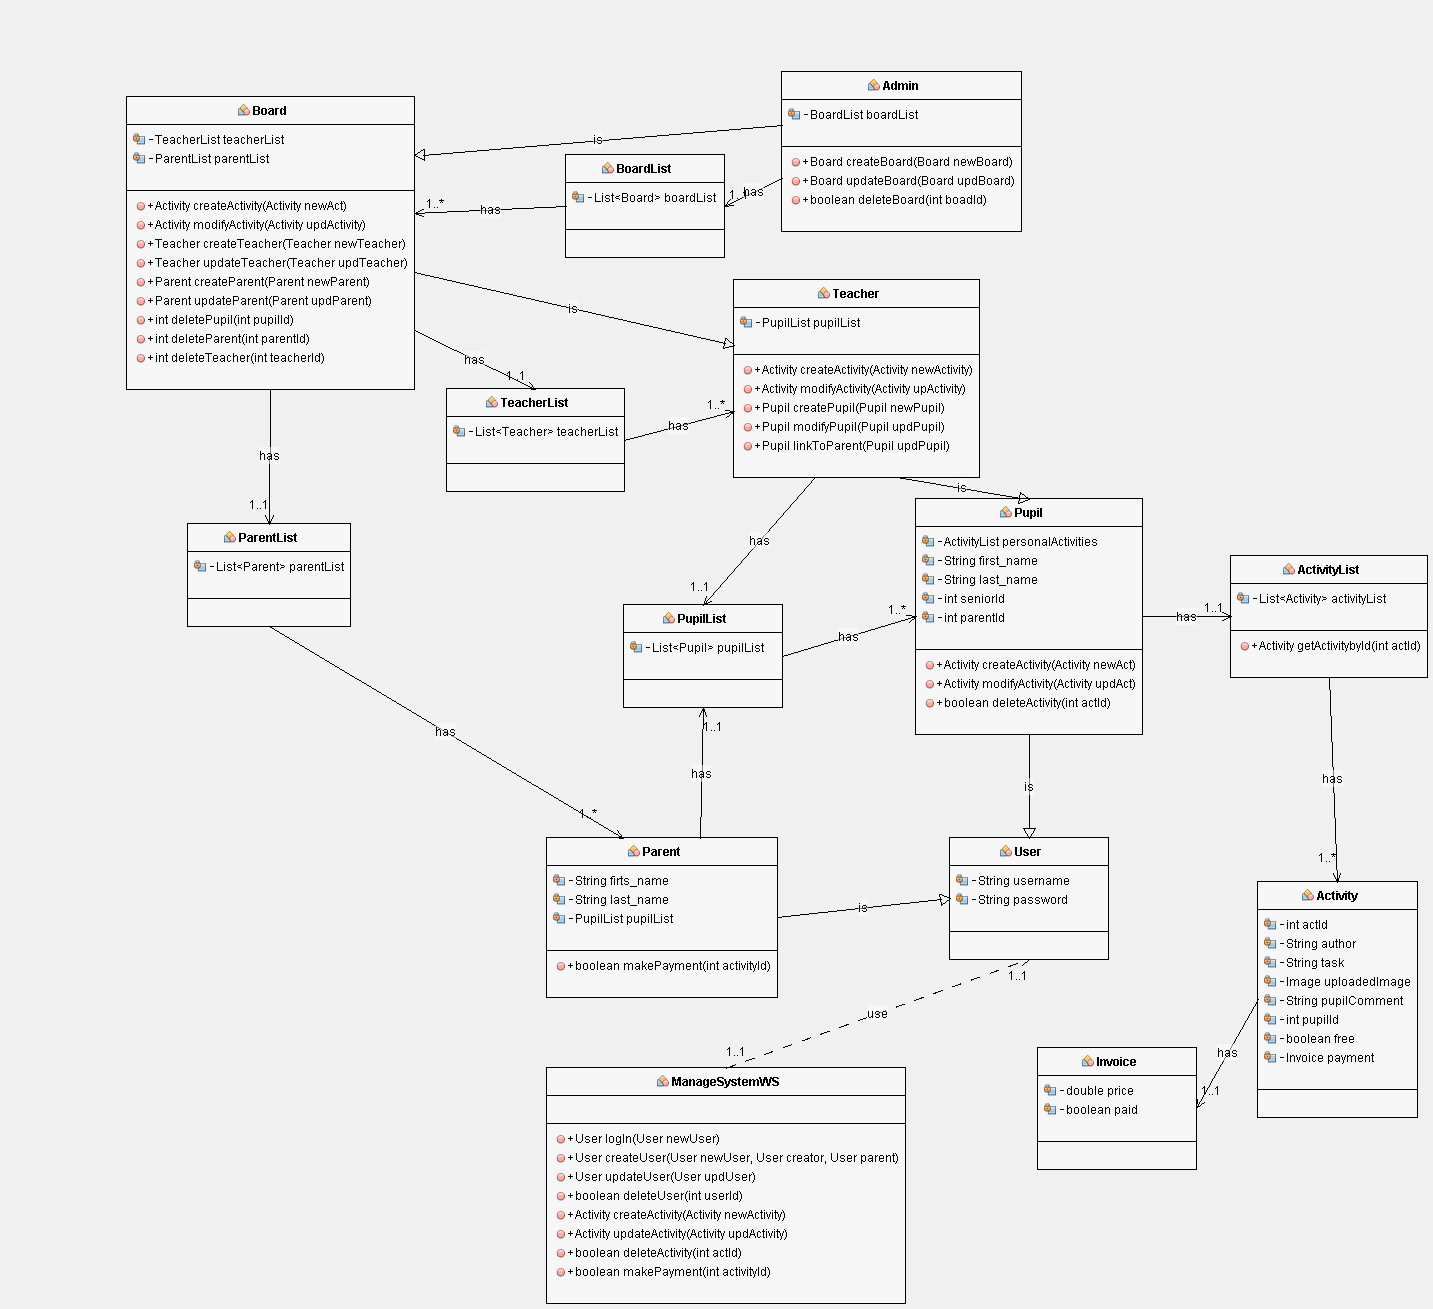
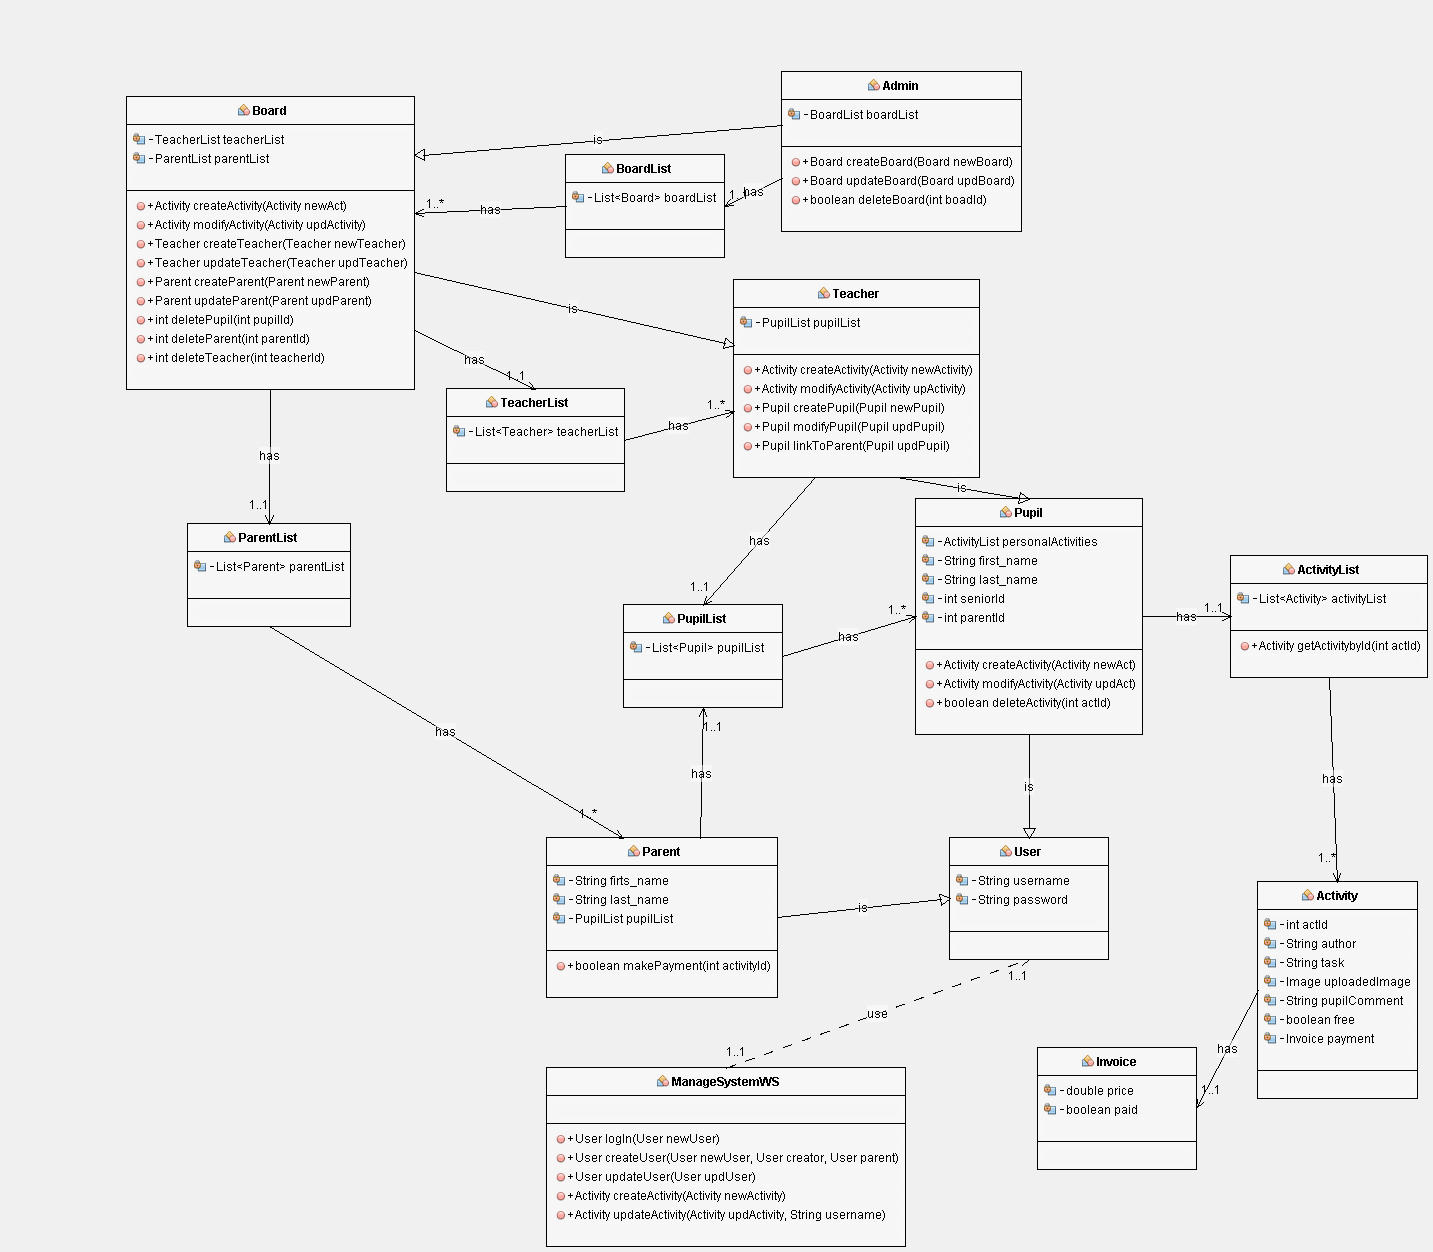
changed class diagram and made progress on serverside script

diff --git a/implementation/projectForWebServer/src/main/java/com/mycompany/mavenproject1/ManageSystemWS.java b/implementation/projectForWebServer/src/main/java/com/mycompany/mavenproject1/ManageSystemWS.java
@@ -482,4 +482,210 @@ public class ManageSystemWS {
         }
         return creator;
     }
+    private User updateUser (User updUser) throws MalformedURLException, IOException{
+       String username=updUser.getUsername();
+       String password=updUser.getPassword(); 
+       String firstName=updUser.getFirst_Name(); 
+       String lastName=updUser.getLast_Name();
+       URL url = new URL("https://smspdata.firebaseio.com/users/"+username+"/.json");
+       HttpsURLConnection conn=(HttpsURLConnection) url.openConnection();
+       conn.setRequestProperty("X-HTTP-Method-Override", "PATCH");
+       conn.setRequestMethod("PUT");
+       String updString="{"
+                    + "\"password\": \""+password+"\","
+                    + " \"data\": {"
+                    + "\"first_name\": \""+firstName+"\","
+                    + "\"last_name\": \""+lastName+"\","
+                    + "}"
+                    + "}";;
+        conn.setDoOutput(true);
+        OutputStream out=conn.getOutputStream();
+        out.write(updString.getBytes());
+        return updUser;
+    }
+    private Activity createActivity(Activity newActivity) throws MalformedURLException, IOException, ParseException{
+        //program connects to database to get last activity ID
+        URL url = new URL("https://smspdata.firebaseio.com/activity_last/last_id/.json");
+        HttpsURLConnection conn=(HttpsURLConnection) url.openConnection();
+        int last_id=-1;
+        if (conn.getResponseCode() == 200) {
+            InputStream is=conn.getInputStream();
+            BufferedReader br = new BufferedReader(new InputStreamReader(is));
+            String line = br.readLine();
+            last_id=Integer.parseInt(line);
+        }
+        conn.disconnect();
+        //After getting last ID we set all new variables and prepare to add new activity to database
+        int new_id=last_id+1;
+        String author=newActivity.getAuthor();
+        String task=newActivity.getTask();
+        boolean free=newActivity.getFree();
+        double price=0;
+        if(!free){
+            price=newActivity.getInvoice().getPrice();
+        }
+        String postMessage="{\"author\":\""+author+"\",\"task\":\""+task+"\",\"paid\":\""+free+"\",\"price\":\""+price+"\"}";
+        //connecting to database to add new activity
+        URL uploadUrl=new URL("https://smspdata.firebaseio.com/activity/"+new_id+"/.json");
+        conn=(HttpsURLConnection) uploadUrl.openConnection();
+        conn.setDoOutput(true);
+        conn.setRequestMethod("PUT");
+        OutputStream out=conn.getOutputStream();
+        out.write(postMessage.getBytes());
+        conn.disconnect();
+        //create variables to insert into user_act table
+        JSONArray userActivities=getUserActivities(author);
+        String comment=" ";
+        boolean paid=true;
+        if(!free){
+            paid=false;
+        }
+        JSONObject newUserAct=new JSONObject();
+        newUserAct.put("ID", new_id);
+        newUserAct.put("comment", comment);
+        newUserAct.put("paid", paid);
+        userActivities.add(newUserAct);
+        //insert data into user_act table
+        uploadUrl=new URL("https://smspdata.firebaseio.com/user_act/"+author+"/.json");
+        conn=(HttpsURLConnection) uploadUrl.openConnection();
+        conn.setDoOutput(true);
+        conn.setRequestMethod("PUT");
+        out=conn.getOutputStream();
+        out.write(userActivities.toString().getBytes());
+        conn.disconnect();
+        //creates user_activities for all child classes
+        //get data from database of what user manages
+        url = new URL("https://smspdata.firebaseio.com/users/"+author+"/manages/.json");
+        conn=(HttpsURLConnection) url.openConnection();
+        InputStream is=conn.getInputStream();
+        if (conn.getResponseCode() == 200) {
+            BufferedReader br = new BufferedReader(new InputStreamReader(is));
+            String all = "", line;
+            while ((line = br.readLine()) != null) {
+                all += line;
+            }
+            conn.disconnect();
+            if(line!=null){
+                JSONArray childArray=getChildrenArray(all);
+                Iterator i=childArray.iterator();
+                while (i.hasNext()){
+                    JSONObject loopObject=(JSONObject) i.next();
+                    String username=(String)loopObject.get("pupil");
+                    JSONArray pupilActivities=getUserActivities(username);
+                    pupilActivities.add(newUserAct);
+                    uploadUrl=new URL("https://smspdata.firebaseio.com/user_act/"+username+"/.json");
+                    conn=(HttpsURLConnection) uploadUrl.openConnection();
+                    conn.setDoOutput(true);
+                    conn.setRequestMethod("PUT");
+                    out=conn.getOutputStream();
+                    out.write(pupilActivities.toString().getBytes());
+                    conn.disconnect();
+                }
+            }
+        }
+        conn.disconnect();
+        return newActivity;
+        
+    }
+    private Activity updateActivity(Activity updActivity, String username) throws IOException, MalformedURLException, ParseException{
+        int actId=updActivity.getActId();
+        JSONArray userActivities=getUserActivities(username);
+        Iterator i=userActivities.iterator();
+        JSONArray newActivities=new JSONArray();
+        while (i.hasNext()){
+            JSONObject loopObject=(JSONObject) i.next();
+            int loopId=(Integer)loopObject.get("ID");
+            if(actId==loopId){
+                JSONObject updActivity=new JSONObject();
+                updActivity.put("ID",actId);
+                updActivity.put("comment", updActivity.getComment());
+                updActivity.put("paid", updActivity.getInvoice().getPaid());
+                newActivities.add(updActivity);
+            }else{
+                newActivities.add(loopObject);
+            }
+        }
+        URL uploadUrl=new URL("https://smspdata.firebaseio.com/user_act/"+username+"/.json");
+        HttpsURLConnection conn=(HttpsURLConnection) uploadUrl.openConnection();
+        conn.setDoOutput(true);
+        conn.setRequestMethod("PUT");
+        OutputStream out=conn.getOutputStream();
+        out.write(newActivities.toString().getBytes());
+        conn.disconnect();
+        return updActivity;
+    }
+    private JSONArray getChildrenArray(String managment) throws IOException, ParseException{
+        char first=managment.charAt(0);
+        JSONArray childArray=new JSONArray();
+        if(first=='_'){
+            URL url=new URL("https://smspdata.firebaseio.com/managment/"+managment+"/classes.json");
+            HttpsURLConnection conn=(HttpsURLConnection) url.openConnection();
+            InputStream is=conn.getInputStream();
+            if (conn.getResponseCode() == 200) {
+                BufferedReader br = new BufferedReader(new InputStreamReader(is));
+                String all = "",line;
+                while ((line = br.readLine()) != null) {
+                    all += line;
+                }
+                JSONParser parser=new JSONParser();
+                Object obj=parser.parse(all);
+                JSONArray classesArray=(JSONArray) obj;
+                Iterator i=classesArray.iterator();
+                while (i.hasNext()){
+                    JSONObject loopObject=(JSONObject) i.next();
+                    String classManage=(String)loopObject.get("class");
+                    JSONArray subArray= getChildrenArray(classManage);
+                    Iterator i2=subArray.iterator();
+                    while (i2.hasNext()){
+                        JSONObject loopObject2=(JSONObject) i.next();
+                        childArray.add(loopObject2);
+                    }
+                }
+            }
+        }else if ((first=='+')||(first=='-')){//if first letter is + or - we connect to database, grab list of pupils
+            //and parse it to childArray
+            URL url=new URL("https://smspdata.firebaseio.com/managment/"+managment+"/pupils.json");
+            HttpsURLConnection conn=(HttpsURLConnection) url.openConnection();
+            InputStream is=conn.getInputStream();
+            if (conn.getResponseCode() == 200) {
+                BufferedReader br = new BufferedReader(new InputStreamReader(is));
+                String all = "",line;
+                while ((line = br.readLine()) != null) {
+                    all += line;
+                }
+                JSONParser parser=new JSONParser();
+                Object obj=parser.parse(all);
+                JSONArray classesArray=(JSONArray) obj;
+                Iterator i=classesArray.iterator();
+                while (i.hasNext()){
+                    JSONObject loopObject=(JSONObject) i.next();
+                    childArray.add(loopObject);
+                      
+                }
+            }
+        }
+        return childArray;
+        
+    }
+    private JSONArray getUserActivities(String username) throws MalformedURLException, IOException, ParseException{
+        //get JsonArray of activities from a user
+        URL url = new URL("https://smspdata.firebaseio.com/user_act/"+username+"/.json");
+        HttpsURLConnection conn=(HttpsURLConnection) url.openConnection();
+        InputStream is=conn.getInputStream();
+        if (conn.getResponseCode() == 200) {
+            BufferedReader br = new BufferedReader(new InputStreamReader(is));
+            String all = "", line;
+            while ((line = br.readLine()) != null) {
+                all += line;
+            }
+            conn.disconnect();
+            JSONParser parser=new JSONParser();
+            Object obj=parser.parse(all);
+            JSONArray jsonArray=(JSONArray) obj;
+            return jsonArray;
+            
+        }
+        return null;
+        
+    }
 }
